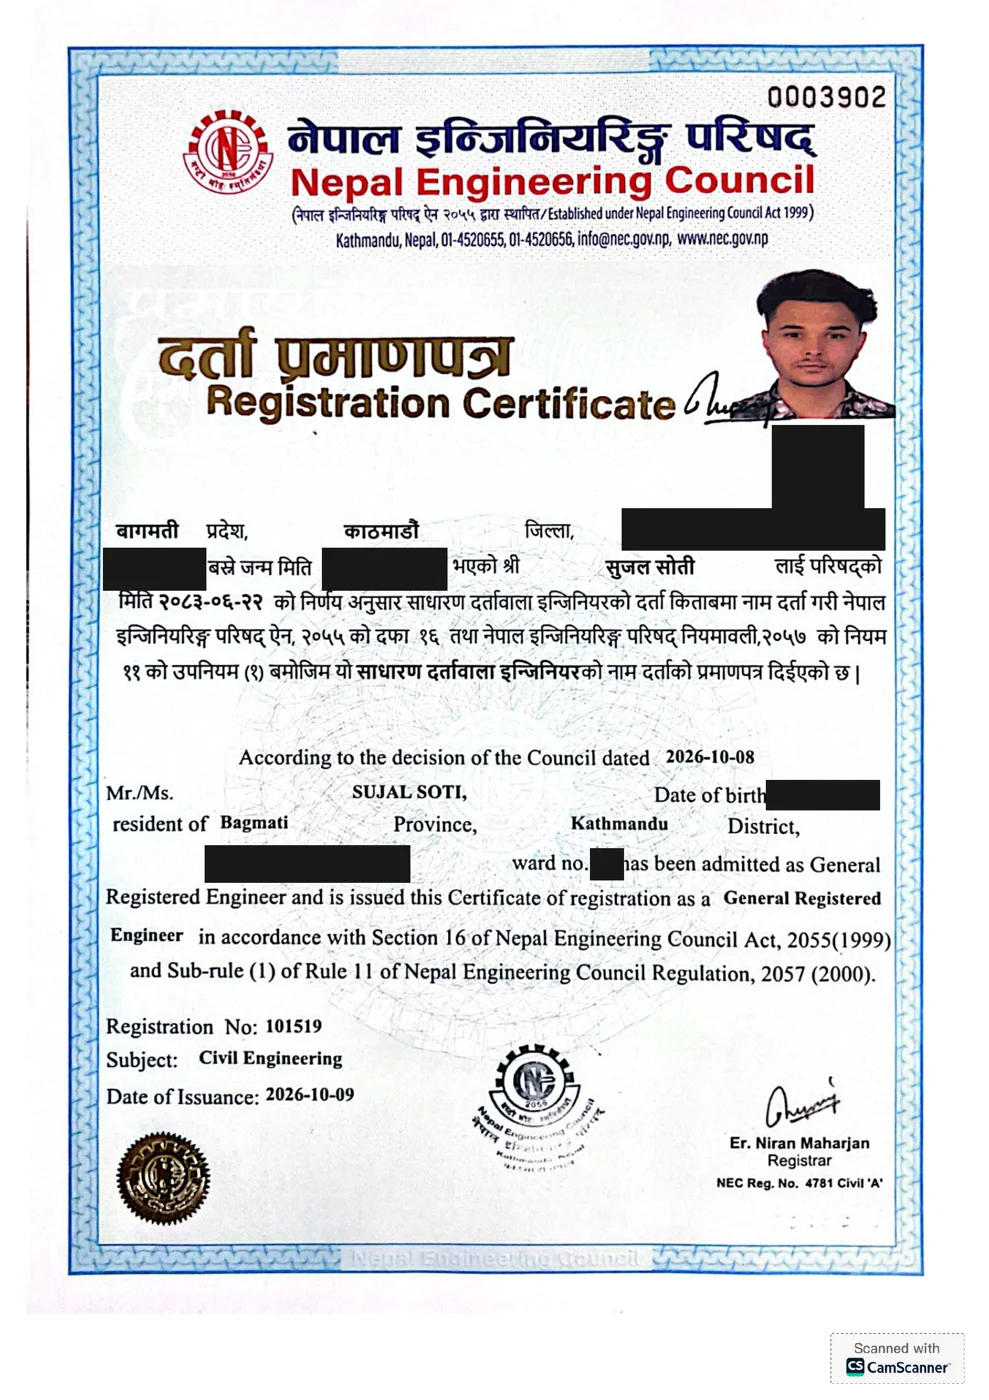
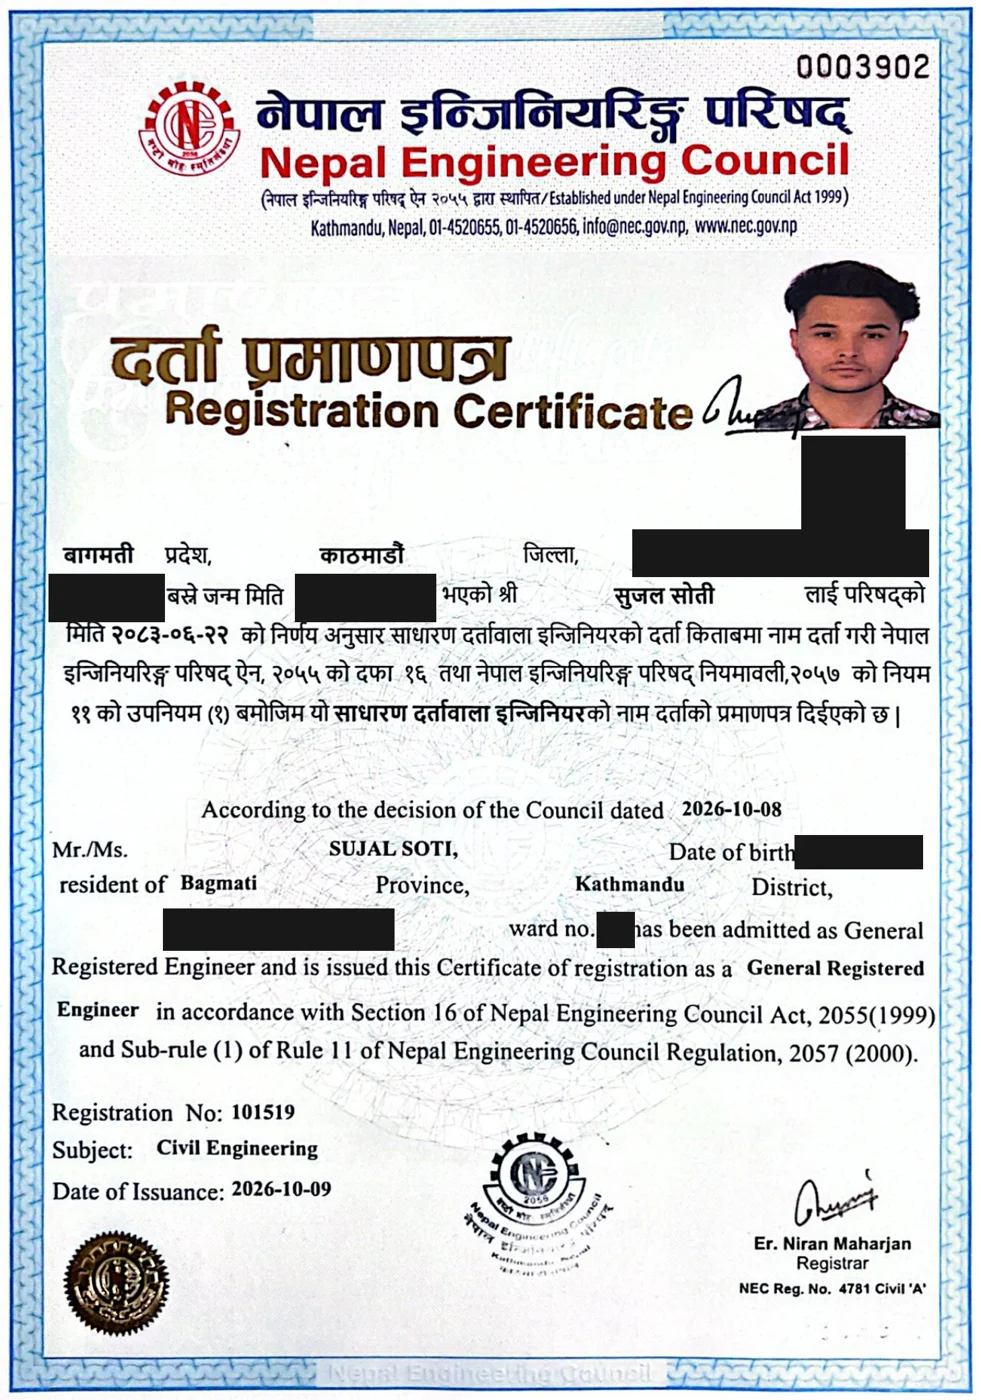
Show NEC certificate and ID card in Professional Registration panel

diff --git a/index.html b/index.html
@@ -300,8 +300,7 @@
           <div class="achieve-score">NEC</div>
           <h4>General Registered Engineer</h4>
           <p>Nepal Engineering Council &middot; Registration No. 101519</p>
-          <a class="achieve-link" href="assets/images/nec-certificate.webp" target="_blank" rel="noopener">View Certificate &rarr;</a><br>
-          <a class="achieve-link" href="assets/images/nec-id-card.webp" target="_blank" rel="noopener">View ID Card &rarr;</a>
+          <a class="achieve-link" href="#credentials">View Credentials &darr;</a>
         </div>
         <div class="achieve-card">
           <div class="achieve-score">18d</div>
@@ -309,6 +308,31 @@
           <p>Civil Engineering Students' Society (CESS), Thapathali Campus &middot; hands-on training in AutoCAD, ETABS &amp; SAFE</p>
           <a class="achieve-link" href="assets/images/certificate-cess-workshop.webp" target="_blank" rel="noopener">View Certificate &rarr;</a>
         </div>
+      </div>
+
+      <div class="credentials reveal" id="credentials">
+        <div class="credentials-info">
+          <h4>Professional Registration</h4>
+          <dl class="credentials-list">
+            <div><dt>Designation</dt><dd>General Registered Engineer</dd></div>
+            <div><dt>Registration No.</dt><dd>101519</dd></div>
+            <div><dt>Discipline</dt><dd>Civil Engineering</dd></div>
+            <div><dt>Date of Issuance</dt><dd>9 October 2026</dd></div>
+            <div><dt>Issuing Body</dt><dd>Nepal Engineering Council</dd></div>
+          </dl>
+          <figure class="credential-doc">
+            <a href="assets/images/nec-id-card.webp" target="_blank" rel="noopener">
+              <img src="assets/images/nec-id-card.webp" alt="Nepal Engineering Council Registered General Engineer ID card of Sujal Soti" loading="lazy">
+            </a>
+            <figcaption>Registered General Engineer ID Card</figcaption>
+          </figure>
+        </div>
+        <figure class="credential-doc">
+          <a href="assets/images/nec-certificate.webp" target="_blank" rel="noopener">
+            <img src="assets/images/nec-certificate.webp" alt="Nepal Engineering Council Registration Certificate of Sujal Soti" loading="lazy">
+          </a>
+          <figcaption>Registration Certificate &middot; personal details redacted for privacy</figcaption>
+        </figure>
       </div>
     </div>
   </section>

diff --git a/css/style.css b/css/style.css
@@ -472,6 +472,44 @@ a { color: inherit; text-decoration: none; }
 }
 .achieve-link:hover { color: var(--accent); }
 
+.credentials {
+  display: grid;
+  grid-template-columns: 1fr 1fr;
+  gap: 36px;
+  align-items: start;
+  margin-top: 32px;
+  padding: 36px;
+  background: var(--surface);
+  border: 1px solid var(--line);
+  border-radius: var(--radius);
+  box-shadow: var(--shadow);
+  scroll-margin-top: 90px;
+}
+.credentials h4 { font-size: 1.05rem; margin-bottom: 16px; }
+.credentials-list { margin-bottom: 28px; }
+.credentials-list div {
+  display: flex;
+  justify-content: space-between;
+  gap: 16px;
+  padding: 10px 0;
+  border-bottom: 1px solid var(--line);
+  font-size: 0.92rem;
+}
+.credentials-list dt { color: var(--ink-soft); }
+.credentials-list dd { font-weight: 600; text-align: right; }
+.credential-doc { display: flex; flex-direction: column; gap: 10px; }
+.credential-doc a { display: block; }
+.credential-doc img {
+  display: block;
+  width: 100%;
+  height: auto;
+  border: 1px solid var(--line);
+  border-radius: 8px;
+  transition: transform 0.2s ease;
+}
+.credential-doc a:hover img { transform: translateY(-2px); }
+.credential-doc figcaption { font-size: 0.82rem; color: var(--ink-soft); text-align: center; }
+
 /* ---------- Contact ---------- */
 .contact-section { text-align: center; }
 .contact-lede {
@@ -504,7 +542,8 @@ a { color: inherit; text-decoration: none; }
   .hero-grid { grid-template-columns: 1fr; }
   .hero-portrait { order: -1; }
   .portrait-frame { width: 200px; height: 240px; }
-  .skills-grid, .achieve-grid { grid-template-columns: 1fr; }
+  .skills-grid, .achieve-grid, .credentials { grid-template-columns: 1fr; }
+  .credentials { padding: 24px; }
   .gallery-grid { grid-template-columns: repeat(2, 1fr); }
 }
 
